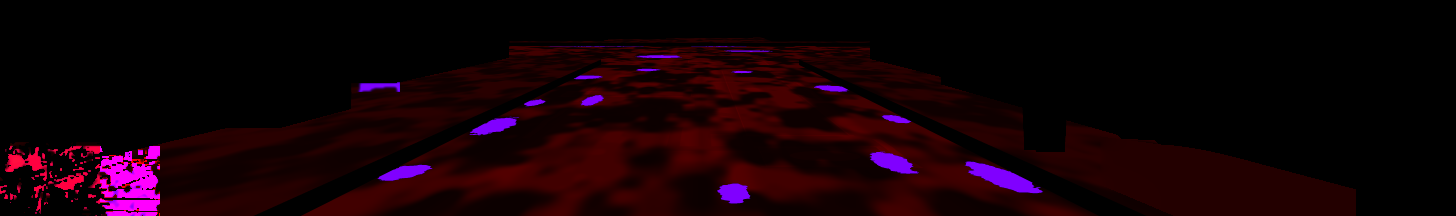
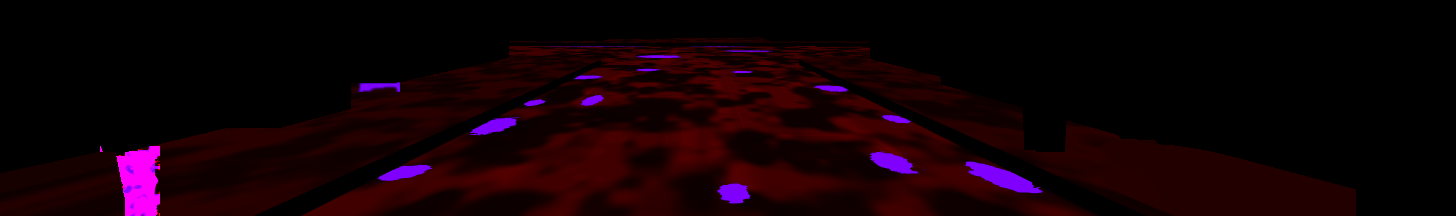
Dojo : sol mouillé refait sans les flaques en forme de feuilles, reflets autour du pied de la façade
La carte d'humidité (wet.webp) devant le dojo reprend l'asphalte mouillé ordinaire,
recopié plus loin dans la rue. La marche et les portes restent sèches. La flaque
de la boutique voisine perd les trous laissés par les feuilles. La ligne de
miroir des reflets (wet_mirror.webp) suit le pied de la façade.

Changed region(s): [[0.0, 0.6667, 0.1236, 1.0]]

diff --git a/assets/street.js b/assets/street.js
@@ -7432,7 +7432,7 @@
     const tex = (src) => { const tx = loader.load(src, () => { if (++WET.loaded === 2 && reduced) frame(); }); tx.magFilter = tx.minFilter = THREE.NearestFilter; tx.generateMipmaps = false; return tx; };
     WET.rt = new THREE.WebGLRenderTarget(16, 16, { minFilter: THREE.LinearFilter, magFilter: THREE.LinearFilter, stencilBuffer: false });
     const mat = new THREE.ShaderMaterial({
-      uniforms: { tScene: { value: WET.rt.texture }, tWet: { value: tex('assets/wet.webp?v=28') }, tMirror: { value: tex('assets/wet_mirror.webp?v=22') },
+      uniforms: { tScene: { value: WET.rt.texture }, tWet: { value: tex('assets/wet.webp?v=29') }, tMirror: { value: tex('assets/wet_mirror.webp?v=23') },
         uCam: { value: new THREE.Vector4(0, IW, 0, IH) }, uTime: { value: 0 }, uGain: { value: 1 }, uDim: { value: 1 }, uRain: { value: 1 },
         uHot: { value: 1.5 }, uSpread: { value: 0.8 }, uRedK: { value: 0 }, uRedFront: { value: 1e5 },
         tStreet: { value: city.material.map }, uSkyLift: { value: 0 } },

diff --git a/tools/tree_bc.py b/tools/tree_bc.py
@@ -265,6 +265,8 @@ def main():
     fc[fill & ~tex_m] = dark_rgb * DEEP[2] / 0.62; fm = fill
 
     # what shows again: rebuilt from the painting
+    wet = np.zeros((H, W, 3)); wet[600:] = load('wet.webp', 'RGB', at=BEFORE)  # (the wet ground's map, at its place: copied with the rest)
+    cur = cur + [wet]
     out = [L.copy() for L in cur]
     def copy(dst, sy, sx):
         for L, O in zip(out, cur): L[dst] = O[sy, sx]
@@ -375,7 +377,7 @@ def main():
         c_city = np.clip(wc * k + gy * 0.8 + rim * 0.35 * (paper_c - wc * k), 0, 255)
         c_unl = np.clip(wu * k + gy * 0.5, 0, 255)
         out[0][y, x, :3] = c_city; out[0][y, x, 3] = 255; out[1][y, x, :3] = c_unl; out[1][y, x, 3] = 255
-        out[2][y, x] = 0; out[3][y, x] = 0
+        out[2][y, x] = 0; out[3][y, x] = 0; out[4][y, x] = 0
     hole &= ~low
     # the stone pillar's foot: from its own stone round it
     gd = lambda: np.concatenate([out[0][:, :, :3], out[1][:, :, :3]], -1)
@@ -409,6 +411,22 @@ def main():
     for y, x in zip(*np.where(pv & (yy < bot + 16))):
         g = sum(np.exp(-((x - (a + b) / 2) ** 2) / (2 * 5.0 ** 2)) for a, b, _ in DOORS) * np.exp(-(y - bot[y, x]) / 6.0)
         out[0][y, x, :3] = np.clip(out[0][y, x, :3] + g * np.array([42.0, 20.0, 4.0]), 0, 255)
+    # the wet ground there: the plain wet asphalt of the same pavement further down the street (not the puddle painted at the
+    # shop's door next to it: its still water), the step and the doors dry
+    plain = pave & ~pv & (cur[4][:, :, 0] > 0) & (cur[4][:, :, 2] < 10) & (xx >= 165) & (yy < KERB_Y(xx))   # (past the shop's puddle)
+    py_, px_ = np.where(pv); left_ = np.ones(len(py_), bool)
+    for a in np.linspace(0.0005, 0.03, 300):
+        k = 1 / (1 + a * (py_ - VPG[1])); sy = np.round(VPG[1] + (py_ - VPG[1]) * k).astype(int); sx = np.round(VPG[0] + (px_ - VPG[0]) * k).astype(int)
+        v = left_ & (sy >= 0) & (sx >= 0) & (sx < W); v[v] &= plain[sy[v], sx[v]]
+        out[4][py_[v], px_[v]] = cur[4][sy[v], sx[v]]; left_ &= ~v
+        if not left_.any(): break
+    if left_.any(): out[4][py_[left_], px_[left_]] = np.median(cur[4][plain], 0)
+    out[4][band | shoji_z | low] = 0
+    # (the shop's puddle next to it: the bush's leaves' holes in it filled with its own water, from the nearest of it)
+    pud = (out[4][:, :, 2] >= 10) & (xx >= 100) & (xx < 170) & (yy >= 740)
+    gaps = ndi.binary_fill_holes(ndi.binary_closing(pud, structure=np.ones((3, 3)), iterations=3)) & ~pud & ~pv & (xx >= 100) & (xx < 170) & (yy >= 740)
+    _, (iy, ix) = ndi.distance_transform_edt(~pud, return_indices=True)
+    out[4][gaps] = out[4][iy[gaps], ix[gaps]]
     rest = hole & ~pave
     if rest.any(): inpaint(out, rest, reg, guide=gd())
     # the dojo's top board under the crown (its lit edges between the old leaves): along its own lines, from its visible bits
@@ -425,7 +443,7 @@ def main():
             else: continue
             break
 
-    city, unlit, nf, sun = out
+    city, unlit, nf, sun = out[:4]
 
     # the power cut: the old tree's own change there, by place
     old_all = crown_old | bush_old
@@ -445,6 +463,12 @@ def main():
                 break
     left = crown_old & ~cm & ~dm & ~bm & ~fm & ~(need | need_f | seen) & ~(xx < 4) & ~(wall & lit)
     if os.environ.get('LEFT'): np.save(os.environ['LEFT'], left)
+    save(out[4][600:], 'wet.webp', 'RGB')
+    # the water's mirror line by the dojo: where its front meets the ground (its foot), the reflections of the doors about it
+    mir = np.asarray(Image.open(io.BytesIO(subprocess.run(['git', 'show', f'{BEFORE}:assets/wet_mirror.webp'], cwd=ROOT, capture_output=True, check=True).stdout)).convert('RGB')).copy()
+    for x in range(0, 110):
+        ym = FRONT_FOOT(x) - 560; mir[0, x, 0] = int(ym); mir[0, x, 1] = int((ym - int(ym)) * 256)
+    save(mir.astype(float), 'wet_mirror.webp', 'RGB')
     save(city, 'layer_city_off.webp', 'RGBA'); save(unlit, 'street_unlit.webp', 'RGBA')
     save(nf, 'night_far.webp', 'RGB'); save(sun, 'street_sun.webp', 'RGB')
     print('crown', int(cm.sum()), '| behind it', int(dm.sum()), '| bush', int(bm.sum()), '| wall rebuilt', int(need.sum()),
